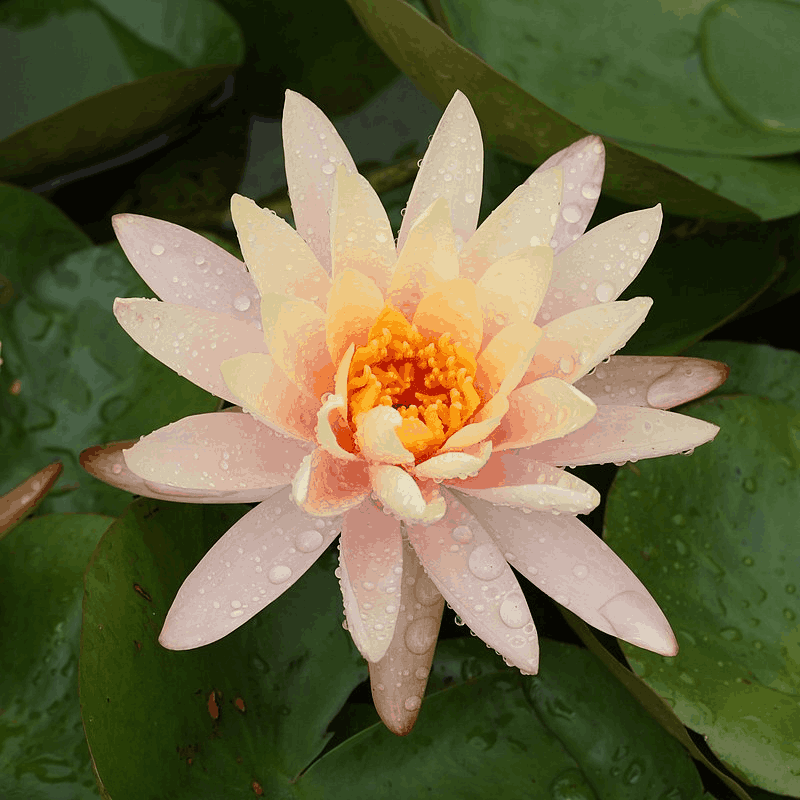
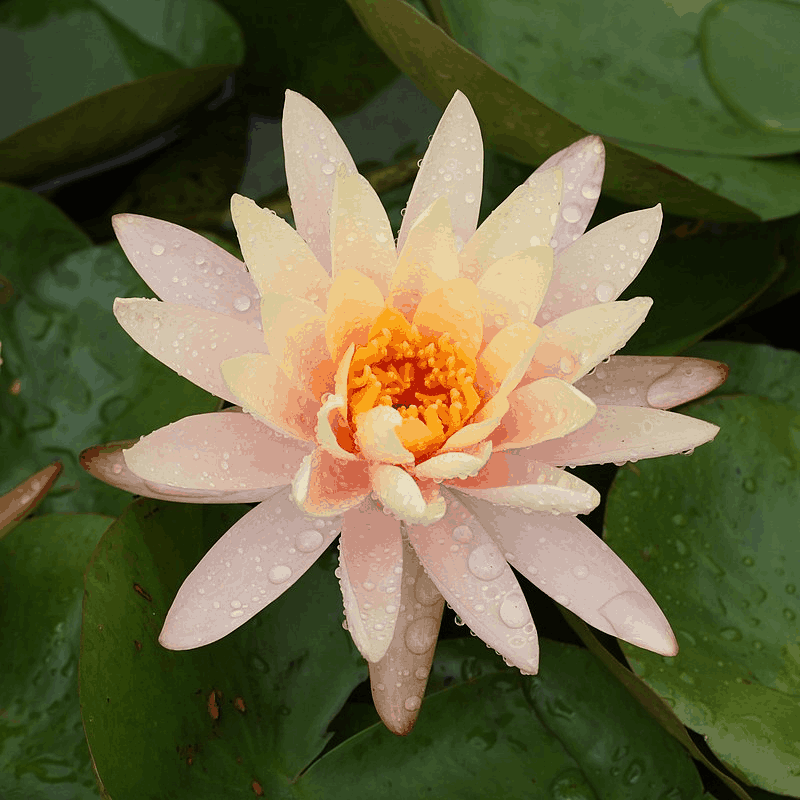
MAJ Kmeans

diff --git a/src/AlgoKMeans.java b/src/AlgoKMeans.java
@@ -1,8 +1,7 @@
 import javax.imageio.ImageIO;
 import java.awt.*;
 import java.awt.image.BufferedImage;
-import java.io.File;
-import java.io.IOException;
+import java.io.*;
 
 public class AlgoKMeans {
 
@@ -27,7 +26,7 @@ public class AlgoKMeans {
                 }
             }
 
-            int nbCoul = 100;
+            int nbCoul = 20;
             int nbIteration = 0;
             int maxIterations = 100;
 
@@ -84,45 +83,45 @@ public class AlgoKMeans {
             }
 
             // Remplacement des pixels par les couleurs des centres de cluster
-            BufferedImage quantizedImage = new BufferedImage(width, height, BufferedImage.TYPE_INT_RGB);
+            BufferedImage destination = new BufferedImage(width, height, BufferedImage.TYPE_INT_RGB);
             index = 0;
             for (int x = 0; x < width; x++) {
                 for (int y = 0; y < height; y++) {
-                    int closestCenterIndex = 0;
+                    int indiceCentrePlusProche = 0;
                     float minDistance = Float.MAX_VALUE;
 
                     for (int i = 0; i < nbCoul; i++) {
                         float distance = getDistance(pixels[index], centroides[i]);
                         if (distance < minDistance) {
                             minDistance = distance;
-                            closestCenterIndex = i;
+                            indiceCentrePlusProche = i;
                         }
                     }
 
-                    Color newColor = new Color((int) centroides[closestCenterIndex][0],
-                            (int) centroides[closestCenterIndex][1], (int) centroides[closestCenterIndex][2]);
-                    quantizedImage.setRGB(x, y, newColor.getRGB());
+                    Color newColor = new Color((int) centroides[indiceCentrePlusProche][0],
+                            (int) centroides[indiceCentrePlusProche][1], (int) centroides[indiceCentrePlusProche][2]);
+                    destination.setRGB(x, y, newColor.getRGB());
 
                     index++;
                 }
             }
 
             // Enregistrer l'image de sortie
-            ImageIO.write(quantizedImage, "png", new File("images/copieKMeans_" + nbCoul + ".png"));
+            ImageIO.write(destination, "png", new File("images/copieKMeans_" + nbCoul + ".png"));
             long fin = System.currentTimeMillis();
             System.out.println("Temps d'exécution : " + (fin - debut) + " ms");
+
         } catch (IOException e) {
             e.printStackTrace();
         }
     }
 
-    private static float getDistance(float[] pixel1, float[] pixel2) {
-        float sum = 0.0f;
-        for (int i = 0; i < pixel1.length; i++) {
-            float diff = pixel1[i] - pixel2[i];
-            sum += diff * diff;
-        }
-        return (float) Math.sqrt(sum);
+    private static int getDistance(float[] pixel1, float[] pixel2) {
+        int distanceRouge = (int) Math.pow(pixel1[0] - pixel2[0], 2);
+        int distanceVert = (int) Math.pow(pixel1[1] - pixel2[1], 2);
+        int distanceBleu = (int) Math.pow(pixel1[2] - pixel2[2], 2);
+
+        return distanceRouge + distanceVert + distanceBleu;
     }
 
     private static boolean hasConverged(float[][] vCentroides, float[][] nCentroides) {
@@ -134,3 +133,5 @@ public class AlgoKMeans {
         return true;
     }
 }
+
+

diff --git a/src/AlgoV2.java b/src/AlgoV2.java
@@ -2,7 +2,6 @@ import javax.imageio.ImageIO;
 import java.awt.*;
 import java.awt.image.BufferedImage;
 import java.io.File;
-import java.io.FileWriter;
 import java.io.IOException;
 import java.util.HashMap;
 
@@ -63,11 +62,6 @@ public class AlgoV2 {
         ImageIO.write(destination, "png", new File("images/copieAlgoV2_" + decomposition + "_" + nbCouleurs + ".png"));
         long fin = System.currentTimeMillis();
         System.out.println("Temps d'exécution : " + (fin - debut) + " ms");
-
-        File fichierResultats = new File("resultatsExecution.txt");
-        FileWriter writer = new FileWriter(fichierResultats);
-        writer.write("AlgoV2 " + nbCouleurs + " couleurs : " + (fin - debut) + " ms");
-        writer.close();
     }
 
     public static Color getColorRange(Color c, HashMap<Color, Integer> range, int decomposition) {
